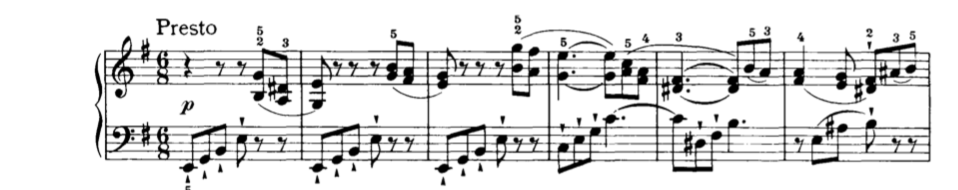
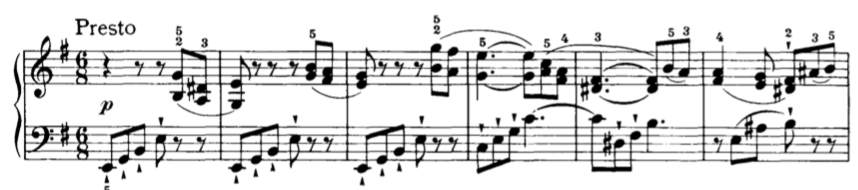
Mise en page bonne pour l'impression

Changed region(s): [[0.0, 0.0789, 1.0, 1.0], [0.3939, 0.9474, 0.4242, 0.9737]]

diff --git a/xlib/js/ui.js b/xlib/js/ui.js
@@ -4,37 +4,39 @@ function  write(str) {
 }
 
 const UI = {
-  toggle_tools: function(){
-    if (this.tools_are_opened()){
-      this.hide_tools();
-    } else {
-      this.show_tools();
+    first: 'virgule'
+  , TOP_FIRST_PAGE_END: 1150
+  , HEIGTH_PRINTED_PAGE: 1230
+  , toggle_tools: function(){
+      if (this.tools_are_opened()){
+        this.hide_tools();
+      } else {
+        this.show_tools();
+      }
     }
-  },
 
-  tools_are_opened: function(){
-    return this.domTools.className == 'opened';
-  },
-
-  show_tools: function(){
-    this.set_ui(); // pour les textes pas encore mis
-    this.domTools.className = 'opened';
-    if(CTags.selections.length > 1){
-      // Pour tous les champs/textes qui en ont besoin
-      $('.selected_count').text(CTags.selections.length);
-      // Pour le verbe grouper ou dégrouper, suivant que la sélection est
-      // grouper ou non
-      $('#verbe_grouper').text(CTags.selections[0].group ? t('Ungroup') : t('Group'));
-      // Pour 'l'alignement
-      $('#fs_alignment').removeClass('undisplayed');
-      // Pour le regroupement
-      $('button#btn-grouper').removeClass('undisplayed');
-    } else {
-      $('#fs_alignment').addClass('undisplayed');
-      $('button#btn-grouper').addClass('undisplayed');
+  , tools_are_opened: function(){
+      return this.domTools.className == 'opened';
     }
-    // $('#selecteds_count').innerHTML = CTags.selections.length;
-  }
+
+  , show_tools: function(){
+      this.set_ui(); // pour les textes pas encore mis
+      this.domTools.className = 'opened';
+      var group_vis = ['#fs_alignment','#btn-grouper','#btn-repartir'];
+      var plusieurs_selections = CTags.selections.length > 1 ;
+      if(plusieurs_selections){
+        // Pour tous les champs/textes qui en ont besoin
+        $('.selected_count').text(CTags.selections.length);
+        // Pour le verbe grouper ou dégrouper, suivant que la sélection est
+        // grouper ou non
+        $('#verb-grouper').text(CTags.selections[0].group ? t('Ungroup') : t('Group'));
+        $('#verb-repartir').text(t('Arrange'));
+
+      };
+      var method = plusieurs_selections ? 'removeClass' : 'addClass' ;
+      group_vis.forEach(function(o){$(o)[method]('undisplayed')});
+      // $('#selecteds_count').innerHTML = CTags.selections.length;
+    }
 
   , hide_tools: function(){
       this.domTools.className = 'closed';
@@ -49,7 +51,7 @@ const UI = {
   , set_ui: function(){
       // Le mieux, c'est la tournure ci-dessous, où l'on met "t-<id locale>"
       // dans la classe de l'élément, qui renvoie à "<id locale>"
-      ['clipboard', 'source-code', 'selected-tags', 'Open', 'the-help'].forEach(function(tid){
+      ['clipboard', 'source-code', 'selected-tags', 'Open', 'the-help', 'sur', 'operations'].forEach(function(tid){
         $(`.t-${tid}`).text(t(tid));
       });
       $('#btn-update-table').text(`${t('update-alt-enter')} (ALT ↩)`);
@@ -61,10 +63,14 @@ const UI = {
       $('.to-left').text(t('to-left'));
       $('.to-right').text(t('to-right'));
       $('.the').text(t('the'));
+      // Pour pouvoir répartir les scores
+      $('#verb-repartir').text(t('Arrange'));
 
       // Les deux lignes qui indiquent les marges gauche/droite
-      $('body').append(`<div class="mark-margin" style="left:20mm;"></div>`);
-      $('body').append(`<div class="mark-margin" style="left:190mm;"></div>`);
+      for(var i = 0; i < 10 ; ++i){
+        var top = this.TOP_FIRST_PAGE_END + Number.parseInt(this.HEIGTH_PRINTED_PAGE * i) ; // +10 pour la marge top
+        $('body').append(`<div class="page-break" style="top:${top}px;"></div>`);
+      };
     }
 };
 Object.defineProperties(UI,{

diff --git a/_analyses_/Analyse_Sonate_Haydn/_tags_.js b/_analyses_/Analyse_Sonate_Haydn/_tags_.js
@@ -1,4 +1,4 @@
-options('code beside', 'lang', 'fr', 'lines of reference') ;
+options('lang', 'fr', 'lines of reference') ;
 
 Tags = `
 // Infos #28#
@@ -10,32 +10,32 @@ analyst Philippe_Perret id=33
 date_analyse 27_janvier_2019 id=34
 #35#
 // === Début analyse === #36#
-score sonate_haydn-0.png id=1 x=80 y=338 w=17cm
+score sonate_haydn-0.png id=1 x=5 y=271 w=175mm
 acc E_min id=37 x=189 y=204
-score sonate_haydn-1.png id=2 x=65 y=538 w=17cm
-score sonate_haydn-2.png id=3 x=82 y=732 w=17cm
-score sonate_haydn-3.png id=4 x=84 y=923 w=17cm
-score sonate_haydn-4.png id=5 x=71 y=1286 w=17cm
-score sonate_haydn-5.png id=6 x=68 y=1490 w=17cm
-score sonate_haydn-6.png id=7 x=63 y=1706 w=17cm
-score sonate_haydn-7.png id=8 x=65 y=1939 w=17cm
-score sonate_haydn-8.png id=9 x=61 y=2206 w=17cm
-score sonate_haydn-9.png id=10 x=45 y=2421 w=17cm
-score sonate_haydn-10.png id=11 x=43 y=2562 w=17cm
-score sonate_haydn-11.png id=12 x=38 y=2685 w=17cm
-score sonate_haydn-12.png id=13 x=36 y=2900 w=17cm
-score sonate_haydn-13.png id=14 x=32 y=3128 w=17cm
-score sonate_haydn-14.png id=15 x=32 y=3363 w=17cm
-score sonate_haydn-15.png id=16 x=33 y=3587 w=17cm
-score sonate_haydn-16.png id=17 x=33 y=3817
-score sonate_haydn-17.png id=18 x=33 y=4044
-score sonate_haydn-18.png id=19 x=32 y=4275
-score sonate_haydn-19.png id=20 x=32 y=4502
-score sonate_haydn-20.png id=21 x=42 y=4723
-score sonate_haydn-21.png id=22 x=39 y=4971
-score sonate_haydn-22.png id=23 x=36 y=5211
-score sonate_haydn-23.png id=24 x=35 y=5457
-score sonate_haydn-24.png id=25 x=34 y=5669
-score sonate_haydn-25.png id=26 x=32 y=5898
-score sonate_haydn-26.png id=27 x=32 y=6113
+score sonate_haydn-1.png id=2 x=6 y=488 w=175mm
+score sonate_haydn-2.png id=3 x=3 y=705 w=175mm
+score sonate_haydn-3.png id=4 x=6 y=922 w=175mm
+score sonate_haydn-4.png id=5 x=12 y=1263 w=175mm
+score sonate_haydn-5.png id=6 x=2 y=1482 w=175mm
+score sonate_haydn-6.png id=7 x=19 y=1701 w=175mm
+score sonate_haydn-7.png id=8 x=15 y=1920 w=175mm
+score sonate_haydn-8.png id=9 x=13 y=2139 w=175mm
+score sonate_haydn-9.png id=10 x=7 y=2518 w=175mm
+score sonate_haydn-10.png id=11 x=12 y=2685 w=175mm
+score sonate_haydn-11.png id=12 x=9 y=2852 w=175mm
+score sonate_haydn-12.png id=13 x=18 y=3019 w=175mm
+score sonate_haydn-13.png id=14 x=4 y=3186 w=175mm
+score sonate_haydn-14.png id=15 x=12 y=3353 w=175mm
+score sonate_haydn-15.png id=16 x=19 y=3689 w=175mm
+score sonate_haydn-16.png id=17 x=17 y=3876 w=175mm
+score sonate_haydn-17.png id=18 x=7 y=4063 w=175mm
+score sonate_haydn-18.png id=19 x=10 y=4250 w=175mm
+score sonate_haydn-19.png id=20 x=4 y=4437 w=175mm
+score sonate_haydn-20.png id=21 x=8 y=4624 w=175mm
+score sonate_haydn-21.png id=22 x=5 y=4913 w=175mm
+score sonate_haydn-22.png id=23 x=14 y=5099 w=175mm
+score sonate_haydn-23.png id=24 x=13 y=5471 w=175mm
+score sonate_haydn-24.png id=25 x=-2 y=5657 w=175mm
+score sonate_haydn-25.png id=26 x=10 y=5285 w=175mm
+score sonate_haydn-26.png id=27 x=9 y=5843 w=175mm
 `;

diff --git a/xlib/js/CTags.js b/xlib/js/CTags.js
@@ -106,13 +106,47 @@ const CTags = {
     } else {
       this.selections[0].group.ungroup();
     }
-  },
+  }
+
+  /**
+   * Appelée par un bouton outil pour répartir les images sélectionnées.
+   * Normalement, ce sont des images de système. On les répartit régulièrement
+   * entre le plus haut et le plus bas verticalement.
+   */
+  , repartir_selected: function(){
+    // Dans un premier temps, il faut trouver le plus haut
+    var my = this
+      , upper = null
+      , lower = null
+      ;
+    // On classe les éléments par hauteur
+    var sorteds = my.selections ;
+    sorteds.sort(function(a,b){
+      return a.y - b.y ;
+    });
+
+    var upper = sorteds[0] ;
+    var lower = sorteds[sorteds.length - 1];
+    var dist = lower.y - upper.y ;
+    console.log('dist:', dist);
+
+    // TODO Faut-il considérer la hauteur de l'élément le plus bas, pour
+    // répartir visuellement ?
+    var esp = Number.parseInt(dist / (my.selections.length - 1),10);
+
+    var i = 0 ;
+    sorteds.forEach(function(itag){
+      itag.update('y', upper.y + (i++ * esp)) ;
+    });
+
+    M.update_lines_and_code();
+  }
 
   /**
    * Méthode directement appelée lorsque l'on clique sur un TAG
    * quelconque
    */
-  onclick: function(ev){
+  , onclick: function(ev){
     // On ferme la boite d'outils si elle était ouverte
     if(UI.tools_are_opened()){UI.hide_tools()}
     // On traite le clic sur l'élément courant

diff --git a/_TABLE_ANALYSE_.html b/_TABLE_ANALYSE_.html
@@ -57,8 +57,11 @@
       <div class="masked">
 
         <fieldset id="fs_boutons">
-          <button type="button" id="btn-grouper" class="undisplayed" onclick="$.proxy(CTags,'grouper_selected')()"><span id="verbe_grouper">Grouper</span> <span class="the"></span> <span class="selected_count">0</span> <span class="t-selected-tags"></span></button>
+          <legend><span class="t-operations"></span> <span class="t-sur"></span> <span class="the"></span> <span class="selected_count">0</span> <span class="t-selected-tags"></span></legend>
+          <button type="button" id="btn-grouper" class="undisplayed" onclick="$.proxy(CTags,'grouper_selected')()"><span id="verb-grouper">Grouper</span></button>
+          <button type="button" id="btn-repartir" class="undisplayed" onclick="$.proxy(CTags,'repartir_selected')()"><span id="verb-repartir">Répartir</span></button>
         </fieldset>
+
         <fieldset id="fs_alignment" class="undisplayed">
           <legend id="fs-alignment-legend">Alignement</legend>
           <span><span id="Align-the"></span> <span class="selected_count">0</span> <span class="t-selected-tags"></span></span>

diff --git a/xlib/css/ui.css b/xlib/css/ui.css
@@ -2,6 +2,7 @@ body {
   margin: 0;
   padding: 0;
   width: 21.01cm;
+  background-color: #DDDDDD;
 }
 section#tools {
   background-color: white;
@@ -120,25 +121,25 @@ div#refline_v {
   top: 20px;
 }
 
+fieldset#fs_boutons {
+
+}
+fieldset#fs_boutons button {
+  display: block;
+}
 /* --------------------------------------------------------------------- */
 
 div.page-break {
   position: absolute;
   width: 100%;
-  border-bottom: 2px solid red;
-  height: 1px;
-  padding: 0 0 0 1em;
+  height: 20px;
+  background-color: red;
+  opacity: 0.7;
 }
-div.page-break:after {
+div.page-break:before {
   content: 'page-break';
+  color: white;
   font-size: 9pt;
   font-variant: small-caps;
-}
-div.mark-margin {
-  position: absolute;
-  opacity: 0.2;
-  height: 2000cm;
-  top: 0;
-  width: 1px;
-  border-left: 2px solid red;
+  margin-left:1em;
 }

diff --git a/xlib/js/system/Flash.js b/xlib/js/system/Flash.js
@@ -161,7 +161,7 @@ Object.defineProperties(Flash,{
     return `
       <style type="text/css">
       #flash {position:fixed; z-index:2000; top:100px; left: 35%; width:30%; border-radius:0.5em; shadow: background-color:grey;box-shadow: 10px 10px 10px grey;}
-      #flash div.msg {padding:2em 4em; font-family: Avenir, Helvetica; font-size: 16pt;}
+      #flash div.msg {padding:1em 2em; font-family: Avenir, Helvetica; font-size: 15pt;}
       #flash #flash-notice {color: blue; background-color:#CCCCFF;}
       #flash #flash-warning {color: red; background-color: #FFCCCC; border: 1px solid red;}
       #flash #flash-ask {color: green; background-color: #CCFFCC; border: 1px solid green;}

diff --git a/xlib/js/themes/muscat.js b/xlib/js/themes/muscat.js
@@ -11,6 +11,6 @@ const MTHEME = {
   , 'text.composer':  Th.set({s: '1.2em', mg: '20%', mh: '19mm'})
   , 'text.date':      Th.set({s: '0.92em', mg: '20%', mh: '28mm'})
   , 'text.opus':      Th.set({s: '0.92em', mg: '35%', mh: '28mm'})
-  , 'text.analyst':   Th.set({s: '0.95em', md: '20mm', mh: '34mm'})
-  , 'text.analysis_date': Th.set({s: '0.95em', md: '20mm', mh: '40mm'})
+  , 'text.analyst':   Th.set({s: '0.95em', md: '20mm', mh: '44mm'})
+  , 'text.analysis_date': Th.set({s: '0.95em', md: '20mm', mh: '49mm'})
 }

diff --git a/xlib/js/MuScaT.js b/xlib/js/MuScaT.js
@@ -494,6 +494,18 @@ const MuScaT = {
       my.update_code() ;
     }
 
+  , update_lines_and_code: function(){
+      var my = this;
+      my.update_lines();
+      my.update_code();
+    }
+    
+  , update_lines: function(){
+      var my = this;
+      my.lines = new Array();
+      my.onEachTag(function(itag){my.lines.push(itag.to_line())});
+    }
+
   , update_code: function(){
       var my = this ;
       my.codeField().value = my.full_code() ;

diff --git a/xlib/js/Tag.js b/xlib/js/Tag.js
@@ -267,9 +267,7 @@ Tag.prototype.to_html = function() {
       }
       // Si un style précis est défini, on le prend
       if (MTHEME[`${my.nature}.${my.type}`]){
-        console.log(`un style précis est défini pour "${my.nature}.${my.type}" : `, Th.get(`${my.nature}.${this.type}`));
         css += Th.get(`${my.nature}.${this.type}`, my.jqObj);
-        console.log('css final:', css);
       }
       break;
     case 'line':

diff --git a/xlib/locales/fr/ui.js b/xlib/locales/fr/ui.js
@@ -14,10 +14,11 @@ Object.assign(MSG,{
 // === COLONNE DROITE ===
 , 'update': 'Actualiser'
 // === BOITE D'OUTILS ===
-, 'Ungroup':  'Dégrouper'
-, 'Group':  'Grouper'
-, 'alignment': 'Alignement'
+, 'Ungroup':    'Dégrouper'
+, 'Group':      'Grouper'
+, 'alignment':  'Alignement'
 , 'Align':      'Aligner'
+, 'Arrange':    'Disposer régulièrement'
 , 'selected-tags': "tags sélectionnés"
 
 , 'to-up':    "en haut"

diff --git a/xlib/css/tags.css b/xlib/css/tags.css
@@ -9,10 +9,15 @@
 section#tags {
   position: relative;
   background-color: white;
+  /* background-color: #EEEEFF; */
+  width: 180.1mm;
+  margin-left:10mm;
+  margin-top:10mm;
+  /* background-color: white; */
   display: block;
   z-index: 0;
   height: 20000cm;
-  /* border:4px solid green; */
+  /* border:1px solid green; */
 }
 /* image, div {
   position: absolute;

diff --git a/xlib/locales/fr/things.js b/xlib/locales/fr/things.js
@@ -6,6 +6,8 @@ Object.assign(MSG,{
     'mess-id':  'Signification'
   // ========================================
   , 'analyzed-by':  'Analysé par'
-  , 'le-of-date':   'Le '
+  , 'le-of-date':   'le '
+  , 'operations':    'Opérations'
+  , 'sur':          'sur'
   , 'tag':          'tag'
 });
